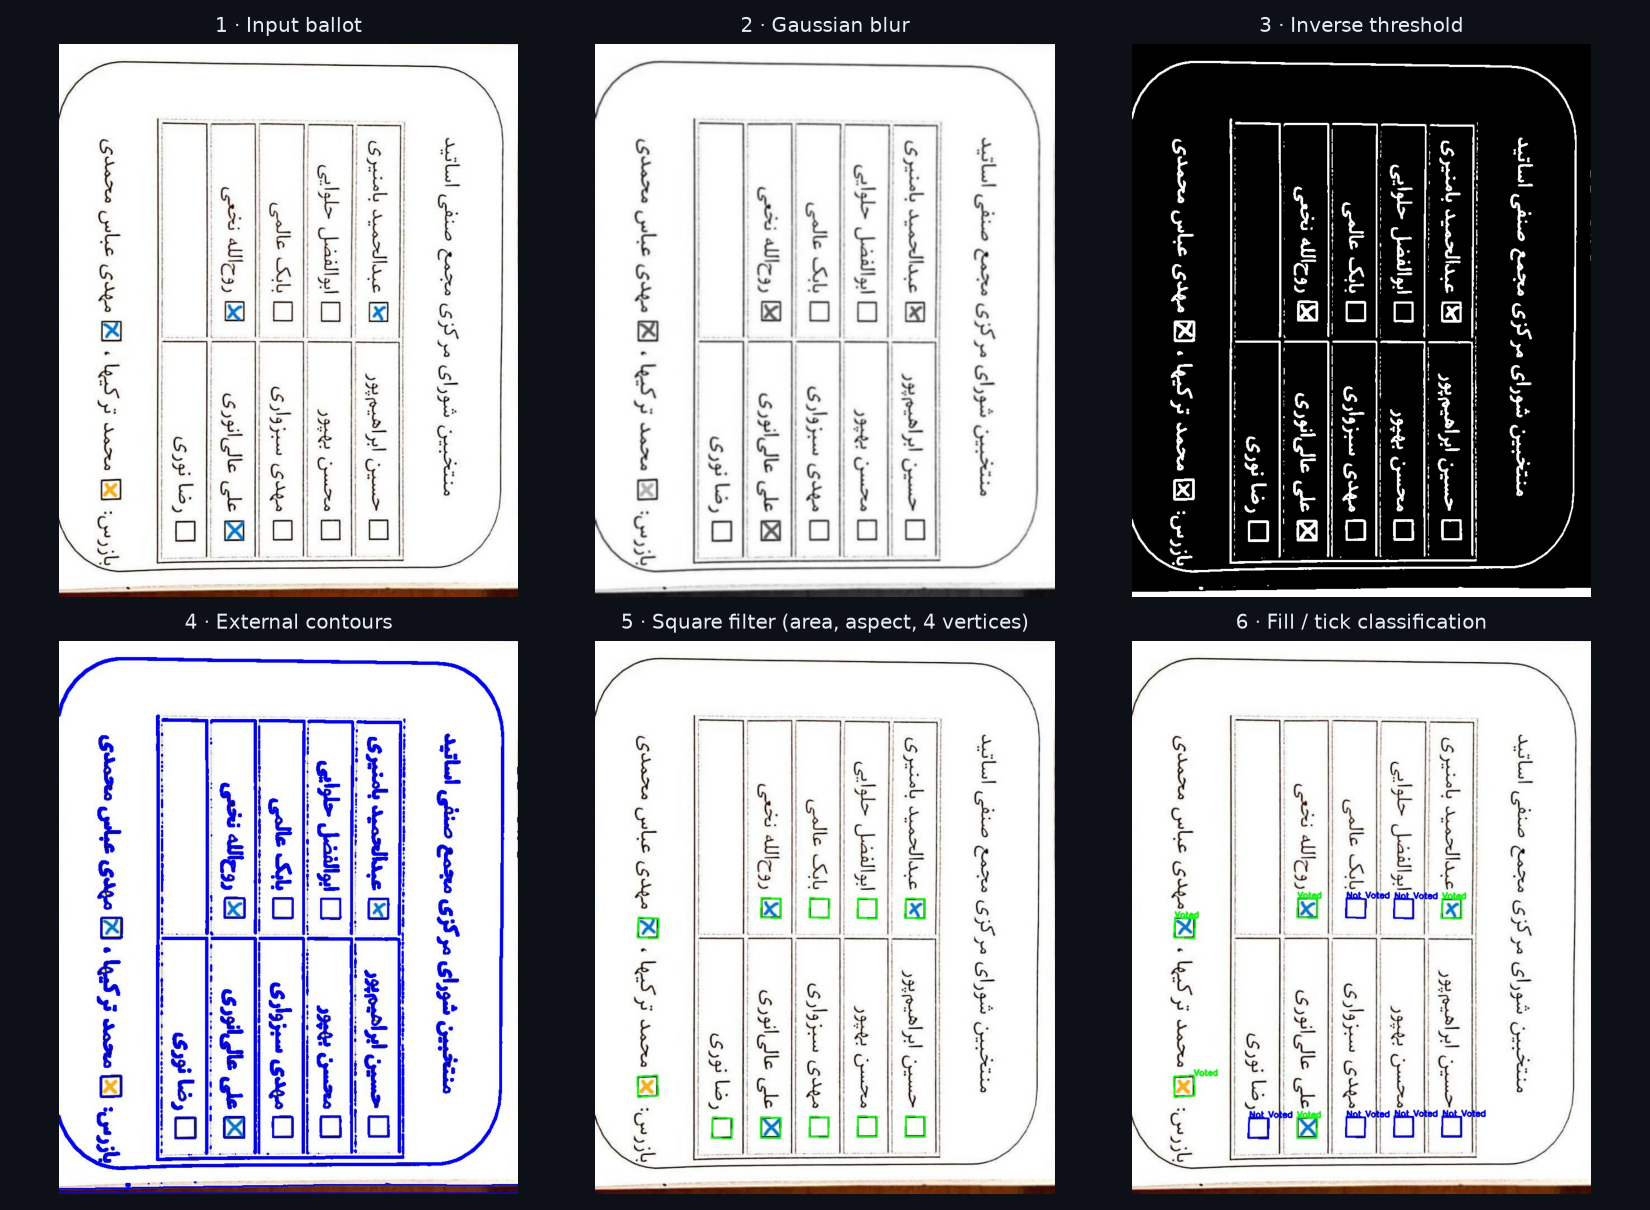
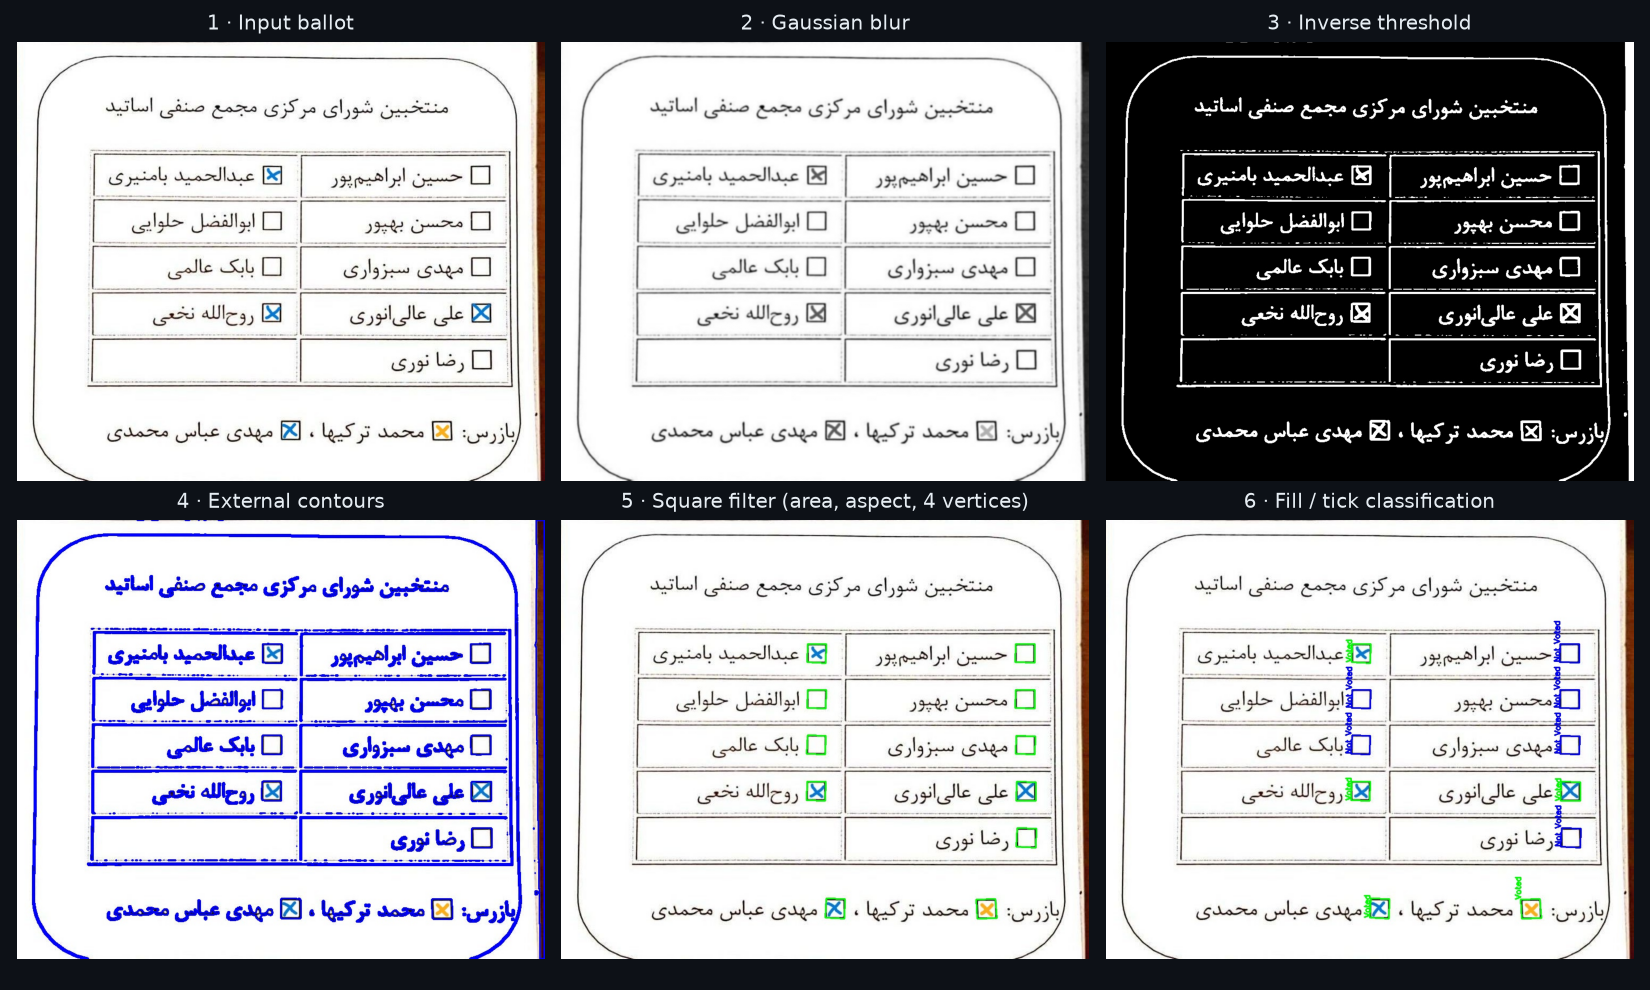
Show pipeline figure upright

diff --git a/docs/make_figures.py b/docs/make_figures.py
@@ -2,6 +2,7 @@
 from pathlib import Path
 
 import matplotlib.pyplot as plt
+import numpy as np
 from matplotlib.image import imread
 
 ROOT = Path(__file__).resolve().parent.parent
@@ -10,13 +11,13 @@ BG, FG = "#0d1117", "#e6edf3"
 plt.rcParams.update({"figure.facecolor": BG, "savefig.facecolor": BG, "text.color": FG})
 
 
-def grid(images, titles, out, cols, size):
+def grid(images, titles, out, cols, size, rotate=0):
     rows = (len(images) + cols - 1) // cols
     fig, axes = plt.subplots(rows, cols, figsize=size)
     for ax in axes.flat:
         ax.axis("off")
     for ax, img, t in zip(axes.flat, images, titles):
-        ax.imshow(imread(img), cmap="gray")
+        ax.imshow(np.rot90(imread(img), rotate), cmap="gray")
         ax.set_title(t, fontsize=13, color=FG, pad=8)
     fig.tight_layout()
     fig.savefig(FIG / out, dpi=110)
@@ -26,7 +27,7 @@ def grid(images, titles, out, cols, size):
 steps = sorted(FIG.glob("step_*.jpg"))
 grid(steps, ["1 · Input ballot", "2 · Gaussian blur", "3 · Inverse threshold",
              "4 · External contours", "5 · Square filter (area, aspect, 4 vertices)", "6 · Fill / tick classification"],
-     "pipeline.png", 3, (15, 11))
+     "pipeline.png", 3, (15, 9), rotate=1)  # sample photo was taken sideways; shown upright
 
 labeled = [ROOT / "results" / f"{n}_labeled.jpg" for n in ("vote1", "vote4", "vote5", "vote6")]
 grid(labeled, ["#002 · valid", "#004 · valid", "R005 · too many inspectors", "R006 · duplicate image"],
